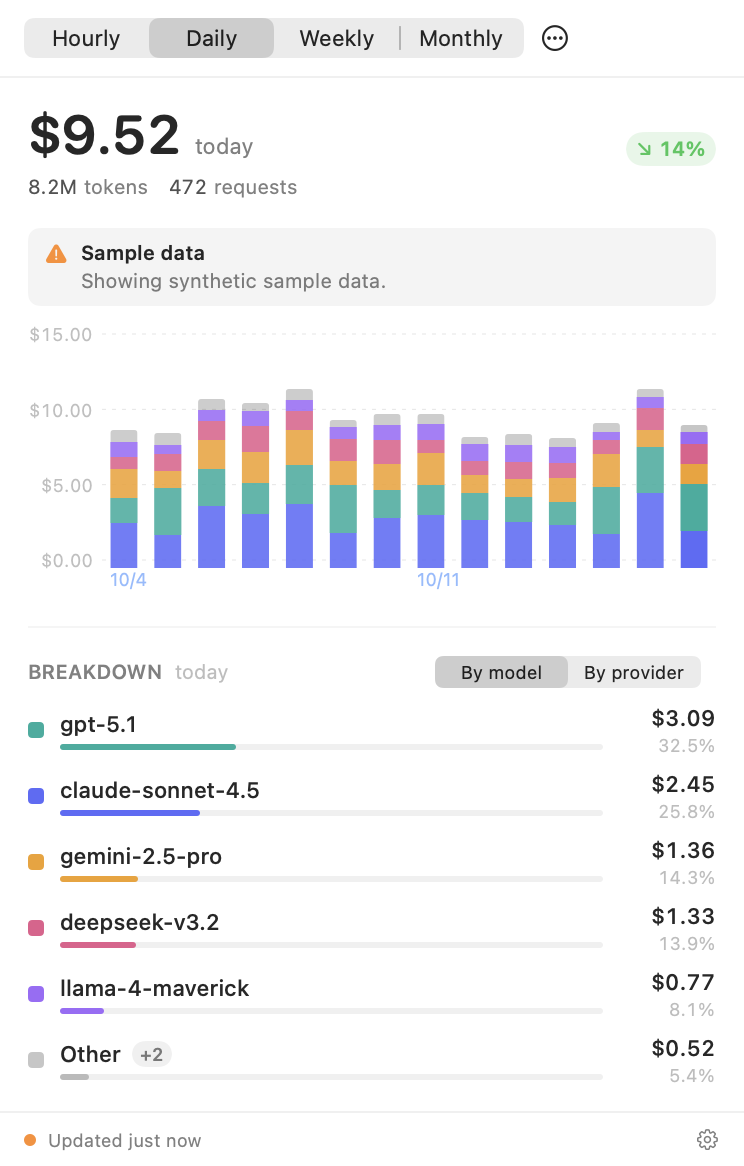
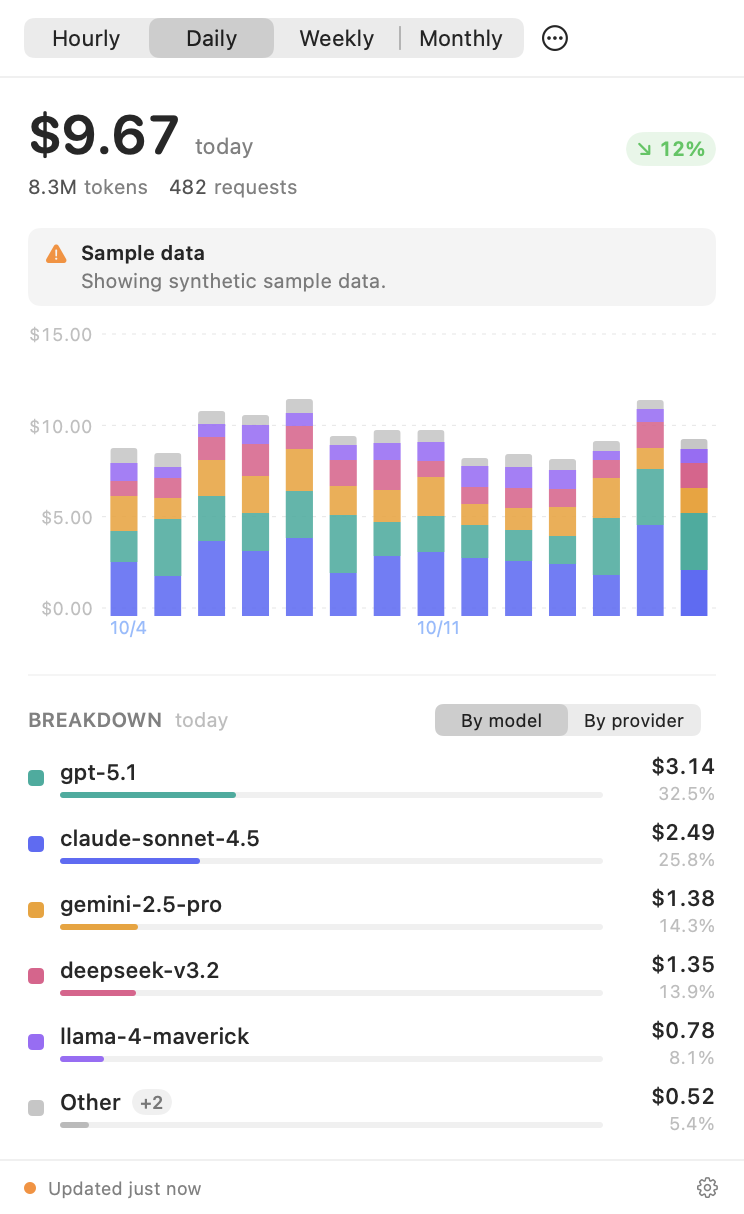
fix: keep the popover from collapsing when the breakdown is short
The drop-down sized itself purely to content, so a provider reporting two or
three series left it barely taller than its own header. Floor the scrollable
column at 430pt, raise the ceiling to 620pt, and let the chart absorb the slack
so the extra height is chart rather than empty space.

diff --git a/Sources/TokenMeter/Views/SpendPopoverView.swift b/Sources/TokenMeter/Views/SpendPopoverView.swift
@@ -11,6 +11,17 @@ struct SpendPopoverView: View {
 
     private let width: CGFloat = 372
 
+    private enum Layout {
+        /// Floor on the scrollable column's height. A provider that reports two or
+        /// three series would otherwise leave the popover little taller than its
+        /// own header; the slack goes to the chart rather than to dead space.
+        static let minContentHeight: CGFloat = 430
+
+        /// Ceiling on the same column, so a long breakdown scrolls instead of
+        /// growing the popover into the menu bar and the Dock.
+        static let maxContentHeight: CGFloat = 620
+    }
+
     var body: some View {
         VStack(alignment: .leading, spacing: 0) {
             header
@@ -27,10 +38,11 @@ struct SpendPopoverView: View {
                         Divider().opacity(0.4)
                         breakdown(report)
                     }
+                    .frame(minHeight: Layout.minContentHeight, alignment: .top)
                     .padding(.horizontal, 14)
                     .padding(.vertical, 12)
                 }
-                .frame(maxHeight: 520)
+                .frame(maxHeight: Layout.maxContentHeight)
             } else {
                 emptyState
             }

diff --git a/Sources/TokenMeter/Views/SpendChart.swift b/Sources/TokenMeter/Views/SpendChart.swift
@@ -19,7 +19,9 @@ struct SpendChart: View {
                 placeholder
             }
         }
-        .frame(height: 132)
+        // Flexible above the floor: when the breakdown is short, the popover's
+        // leftover height goes here instead of into empty space below the list.
+        .frame(minHeight: 156)
         .accessibilityElement(children: .ignore)
         .accessibilityLabel(accessibilitySummary)
     }
